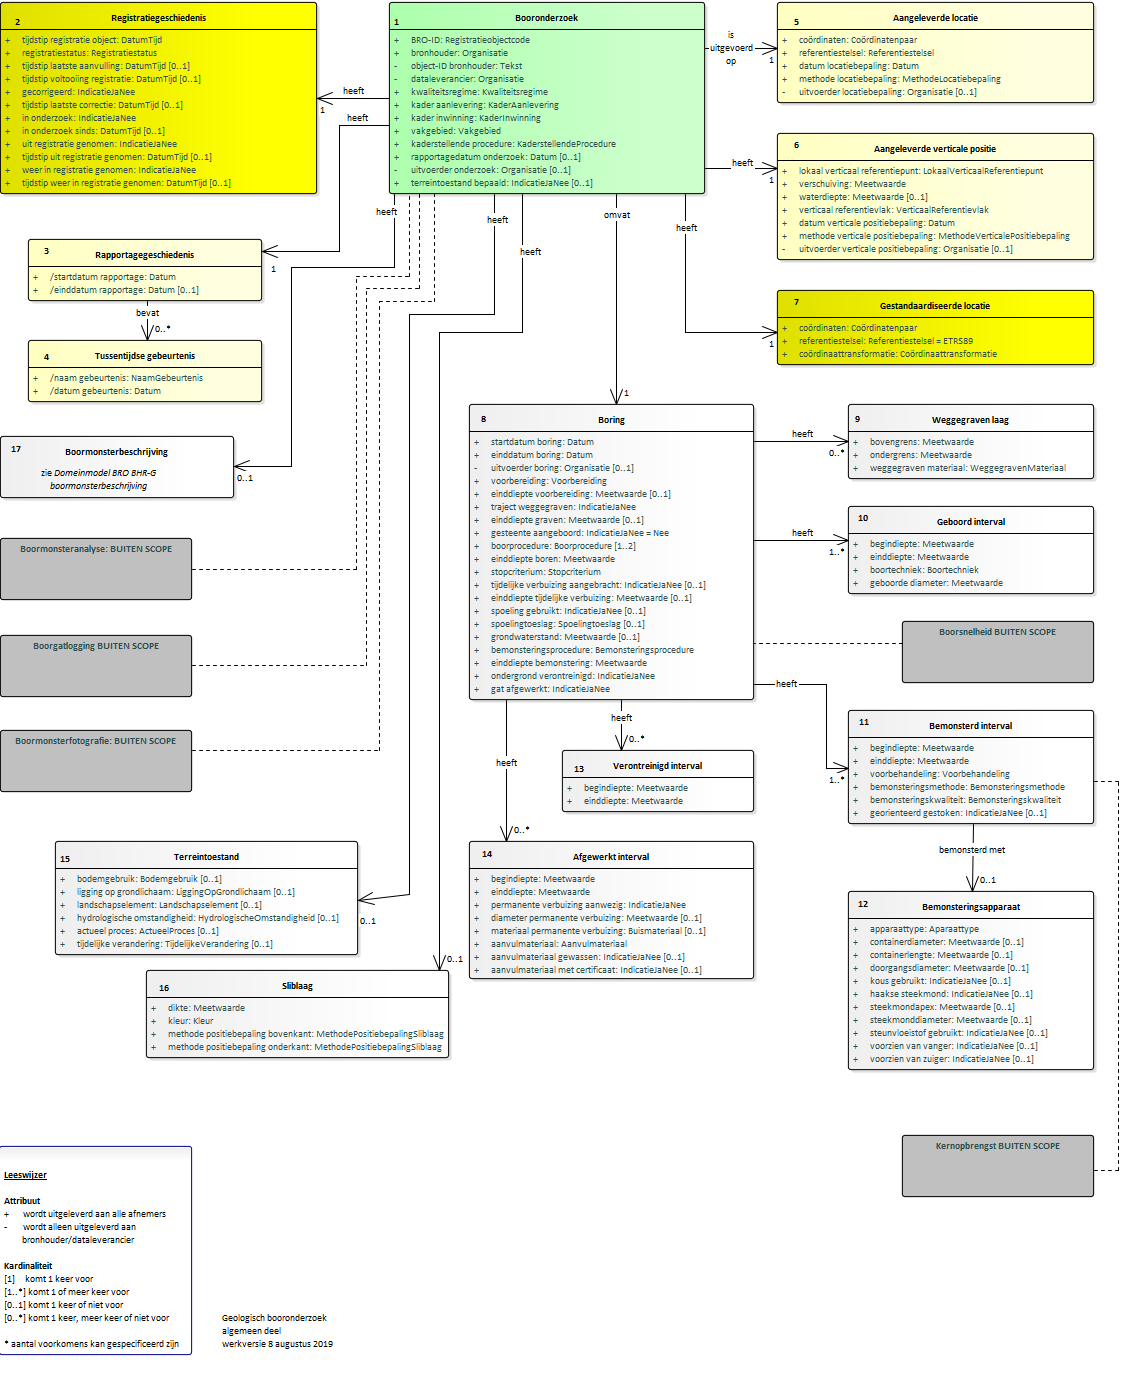
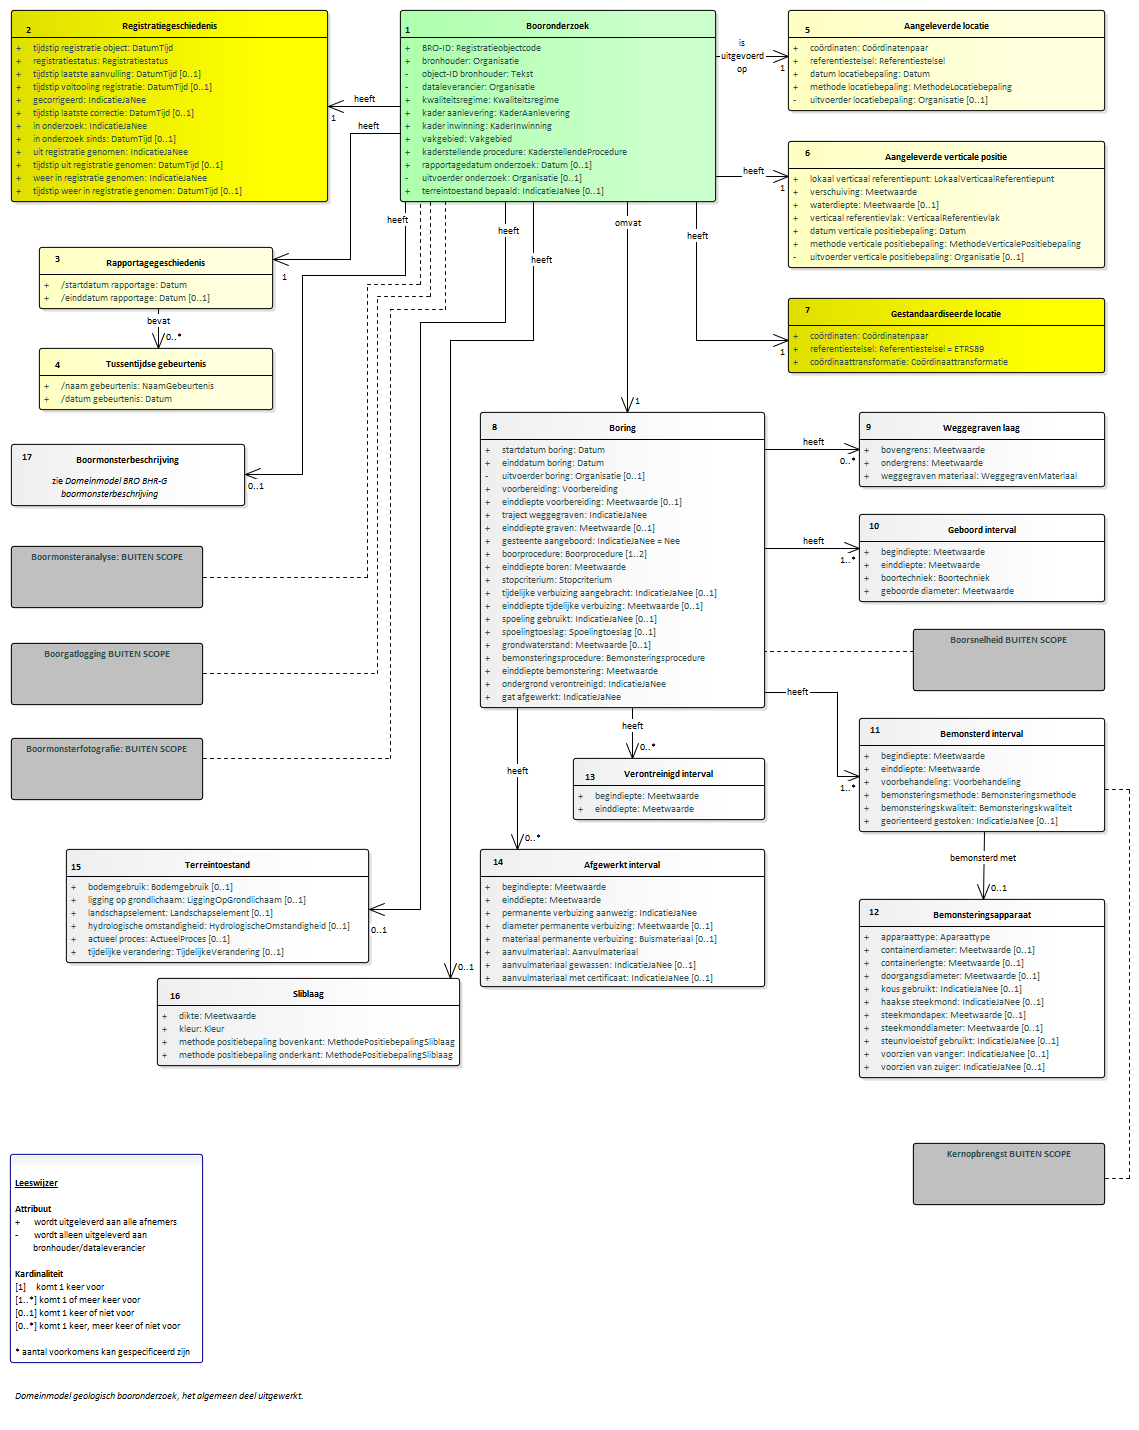
Conceptualmodel-GeologischbooronderzoekBHR-G-0.9-0-20190923-20190925-113448

diff --git a/data/BHR-G-cat.msword.html b/data/BHR-G-cat.msword.html
@@ -8,7 +8,7 @@
    <body>
       <p>Conceptual model/Geologisch booronderzoek (BHR-G)/20190923</p>
       <p>Imvertor: 1.55.0</p>
-      <p>Model release: Conceptualmodel-GeologischbooronderzoekBHR-G-0.9-0-20190923-20190925-112103</p>
+      <p>Model release: Conceptualmodel-GeologischbooronderzoekBHR-G-0.9-0-20190923-20190925-113448</p>
       <hr>
       <section id="" level="3">
          <h1>Artikel 1  Entiteiten en attributen   </h1><a class="anchor" name="graph_EAID_660D0220_39EE_4290_AD92_C8E8CCEDB502"></a><a class="anchor" name="global_class_DomeinmodelBHRBHRG_Booronderzoek"></a><section id="global_class_DomeinmodelBHRBHRG_Booronderzoek" level="4">
@@ -1540,9 +1540,6 @@
                      <td>Rapportagegeschiedenis 
                         bevat 0, 1 of meer 
                         <a class="link" href="#global_class_DomeinmodelBHRBHRG_TussentijdseGebeurtenis">Tussentijdse gebeurtenis</a>
-                        <br>Rapportagegeschiedenis 
-                        tussentijdse gebeurtenis 0, 1 of meer 
-                        <a class="link" href="#global_class_DomeinmodelBHRBHRG_TussentijdseGebeurtenis">Tussentijdse gebeurtenis</a>
                         <br>
                         <a class="link" href="#global_class_DomeinmodelBHRBHRG_Booronderzoek">Booronderzoek</a>
                         
@@ -1729,10 +1726,7 @@
                      <td>
                         <a class="link" href="#global_class_DomeinmodelBHRBHRG_Rapportagegeschiedenis">Rapportagegeschiedenis</a>
                         
-                        bevat 0, 1 of meer Tussentijdse gebeurtenis<br>
-                        <a class="link" href="#global_class_DomeinmodelBHRBHRG_Rapportagegeschiedenis">Rapportagegeschiedenis</a>
-                        
-                        tussentijdse gebeurtenis 0, 1 of meer Tussentijdse gebeurtenis<br></td>
+                        bevat 0, 1 of meer Tussentijdse gebeurtenis<br></td>
                   </tr>
                </tbody>
             </table><a class="anchor" name="detail_attribute_DomeinmodelBHRBHRG_TussentijdseGebeurtenis_naamGebeurtenis"></a><section id="detail_attribute_DomeinmodelBHRBHRG_TussentijdseGebeurtenis_naamGebeurtenis" level="5">
@@ -28578,26 +28572,27 @@
                <area shape="rect" coords="336,575,675,318" alt="" href="#graph_EAID_F9410F95_1E35_49a6_8BB8_D0E18D712643">
                <area shape="rect" coords="379,277,633,150" alt="" href="#graph_EAID_2BA8A9AC_A3C1_452a_983C_282727BF9036">
                <area shape="rect" coords="393,98,619,10" alt="" href="#graph_EAID_D89A831D_A496_41a9_AE6D_57069276AAC1">
-               <area shape="rect" coords="323,1022,685,791" alt="" href="#graph_EAID_9A1B738F_E114_4c70_BDAF_7EABE244ADA0"></map><p><b>Domeinmodel BRO BHR-G deel boormonsterbeschrijving - overzicht</b></p>
+               <area shape="rect" coords="323,1022,685,791" alt="" href="#graph_EAID_9A1B738F_E114_4c70_BDAF_7EABE244ADA0"></map><p><b>Domeinmodel geologisch booronderzoek - overzicht</b> — &lt;i&gt;deelonderzoek boormonsterbeschrijving uitgewerkt.&lt;/i&gt;
+            </p>
          </div>
          <div class="imageinfo overview"><img src="Images/EAID_B03B3DD6_C3FE_48fb_A2E3_66DF26B3775E.png" usemap="#imagemap-EAID_B03B3DD6_C3FE_48fb_A2E3_66DF26B3775E"><map name="imagemap-EAID_B03B3DD6_C3FE_48fb_A2E3_66DF26B3775E">
-               <area shape="rect" coords="0,498,234,436" alt="" href="#graph_EAID_D89A831D_A496_41a9_AE6D_57069276AAC1">
-               <area shape="rect" coords="146,1058,449,970" alt="" href="#graph_EAID_6B7C049A_F2ED_4391_AEE5_49B2A387FDDF">
-               <area shape="rect" coords="55,955,358,841" alt="" href="#graph_EAID_A1ADB2AE_C1B7_46a4_B599_DC0D0AD9F805">
-               <area shape="rect" coords="469,979,754,841" alt="" href="#graph_EAID_6B4288D5_BEF3_4680_90F4_9F076D0FC218">
-               <area shape="rect" coords="562,812,754,750" alt="" href="#graph_EAID_16F266E3_C973_4529_966E_A77E16CDBA8A">
-               <area shape="rect" coords="848,1070,1094,891" alt="" href="#graph_EAID_0AB2C94F_0BED_4e73_A604_516206E06046">
-               <area shape="rect" coords="848,824,1094,710" alt="" href="#graph_EAID_0575B591_1E52_4c9b_A2D6_F043C4141D37">
-               <area shape="rect" coords="848,594,1094,506" alt="" href="#graph_EAID_ABF55F88_28B6_4d57_8D8A_F121A3AA0F51">
-               <area shape="rect" coords="848,479,1094,404" alt="" href="#graph_EAID_6EB72656_FB81_4560_ACB8_5C3707345FCD">
-               <area shape="rect" coords="469,700,754,404" alt="" href="#graph_EAID_AA486803_23A2_4a00_AA43_2F9E7827E064">
-               <area shape="rect" coords="777,365,1094,290" alt="" href="#graph_EAID_C5393969_2BB7_404b_BBF9_2124533B091A">
-               <area shape="rect" coords="777,260,1094,133" alt="" href="#graph_EAID_68439F20_C656_42fd_B7EA_16FFDF536416">
-               <area shape="rect" coords="777,103,1094,2" alt="" href="#graph_EAID_C4A3A09F_45F0_4623_AE32_E8AF9A703C62">
-               <area shape="rect" coords="28,402,262,340" alt="" href="#graph_EAID_725A4724_B6D0_4341_A1C4_4F93AD3E6216">
-               <area shape="rect" coords="28,301,262,239" alt="" href="#graph_EAID_8BEA8373_8624_4cd9_80EA_7EC93CED307F">
-               <area shape="rect" coords="0,194,317,2" alt="" href="#graph_EAID_C7F3AA17_23C9_4038_AA5F_EA56515F2929">
-               <area shape="rect" coords="389,194,705,2" alt="" href="#graph_EAID_660D0220_39EE_4290_AD92_C8E8CCEDB502"></map><p><b>Domeinmodel BRO BHR-G algemeen deel - overzicht</b> — figuur algemeen deel
+               <area shape="rect" coords="11,506,245,444" alt="" href="#graph_EAID_D89A831D_A496_41a9_AE6D_57069276AAC1">
+               <area shape="rect" coords="157,1066,460,978" alt="" href="#graph_EAID_6B7C049A_F2ED_4391_AEE5_49B2A387FDDF">
+               <area shape="rect" coords="66,963,369,849" alt="" href="#graph_EAID_A1ADB2AE_C1B7_46a4_B599_DC0D0AD9F805">
+               <area shape="rect" coords="480,987,765,849" alt="" href="#graph_EAID_6B4288D5_BEF3_4680_90F4_9F076D0FC218">
+               <area shape="rect" coords="573,820,765,758" alt="" href="#graph_EAID_16F266E3_C973_4529_966E_A77E16CDBA8A">
+               <area shape="rect" coords="859,1078,1105,899" alt="" href="#graph_EAID_0AB2C94F_0BED_4e73_A604_516206E06046">
+               <area shape="rect" coords="859,832,1105,718" alt="" href="#graph_EAID_0575B591_1E52_4c9b_A2D6_F043C4141D37">
+               <area shape="rect" coords="859,602,1105,514" alt="" href="#graph_EAID_ABF55F88_28B6_4d57_8D8A_F121A3AA0F51">
+               <area shape="rect" coords="859,487,1105,412" alt="" href="#graph_EAID_6EB72656_FB81_4560_ACB8_5C3707345FCD">
+               <area shape="rect" coords="480,708,765,412" alt="" href="#graph_EAID_AA486803_23A2_4a00_AA43_2F9E7827E064">
+               <area shape="rect" coords="788,373,1105,298" alt="" href="#graph_EAID_C5393969_2BB7_404b_BBF9_2124533B091A">
+               <area shape="rect" coords="788,268,1105,141" alt="" href="#graph_EAID_68439F20_C656_42fd_B7EA_16FFDF536416">
+               <area shape="rect" coords="788,111,1105,10" alt="" href="#graph_EAID_C4A3A09F_45F0_4623_AE32_E8AF9A703C62">
+               <area shape="rect" coords="39,410,273,348" alt="" href="#graph_EAID_725A4724_B6D0_4341_A1C4_4F93AD3E6216">
+               <area shape="rect" coords="39,309,273,247" alt="" href="#graph_EAID_8BEA8373_8624_4cd9_80EA_7EC93CED307F">
+               <area shape="rect" coords="11,202,328,10" alt="" href="#graph_EAID_C7F3AA17_23C9_4038_AA5F_EA56515F2929">
+               <area shape="rect" coords="400,202,716,10" alt="" href="#graph_EAID_660D0220_39EE_4290_AD92_C8E8CCEDB502"></map><p><b>Domeinmodel geologisch booronderzoek - overzicht</b> — het algemeen deel uitgewerkt
             </p>
          </div>
       </section>
